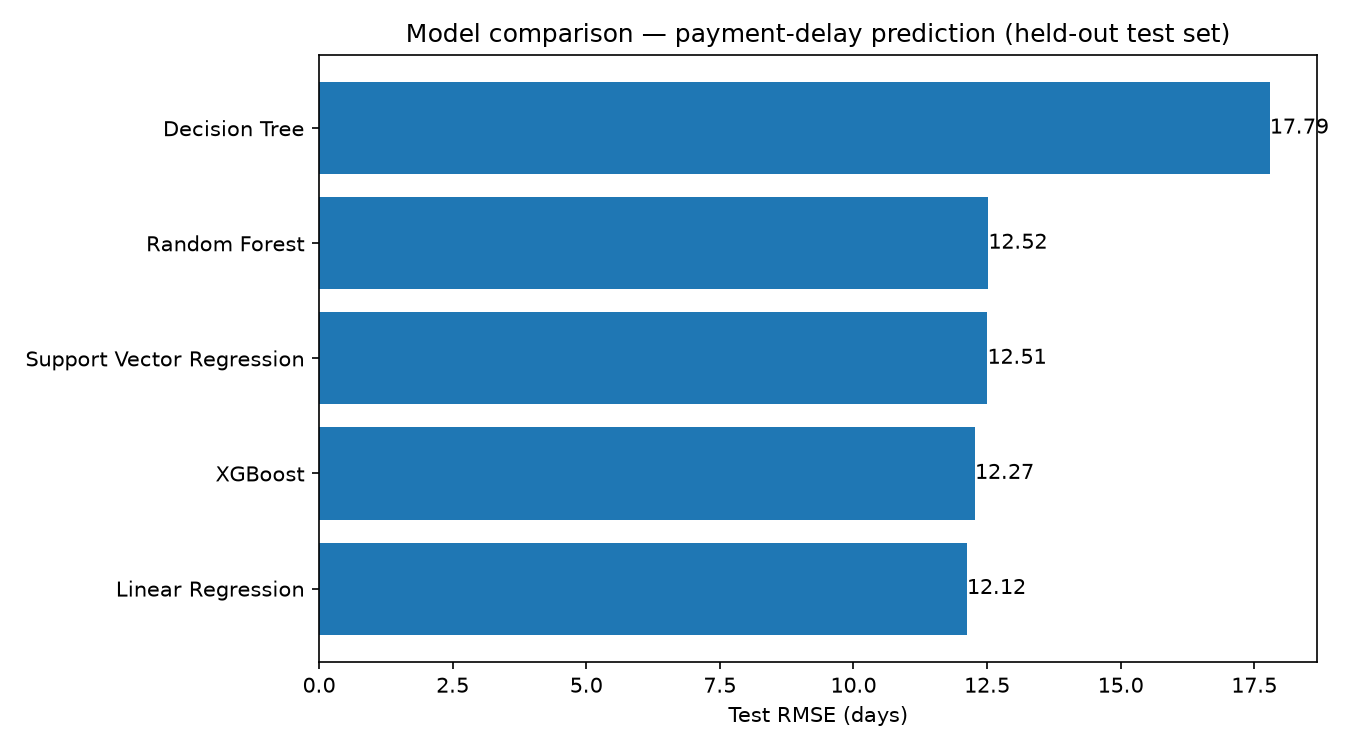
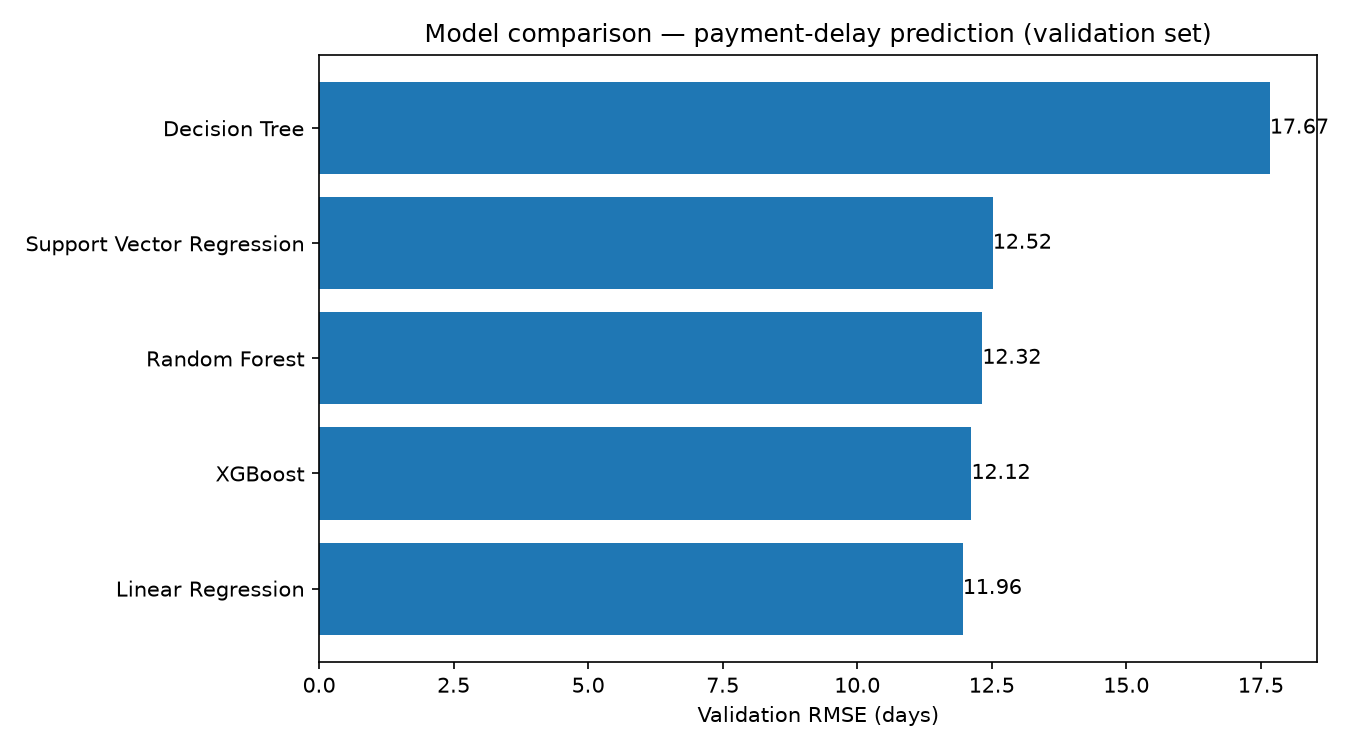
Fix evaluation design: train-only term imputation; model selection on validation, single final test evaluation

diff --git a/outputs/report.md b/outputs/report.md
@@ -15,21 +15,31 @@
 - Dropped columns: posting_id, area_business, is_open_item
 - Rows after duplicate removal: **47,692** (2,308 duplicates removed)
 
-## Leakage fix
+## Evaluation design (leakage fixes)
 
-The labeled data was split into train/test **before** any target-derived feature was computed. Customer-level average delay and invoice counts come from the training split only; unseen customers fall back to the training global mean. The original notebook computed these averages before splitting, which leaked each test row's own target into its features.
+1. The labeled data was split into train / validation / test **before** any target-derived feature was computed. Customer-level average delay and invoice counts come from the training split only; unseen customers fall back to the training global mean. The original notebook computed these averages before splitting, which leaked each test row's own target into its features.
+2. Missing payment terms are filled with the most common term computed from the **training** split only, then applied to validation, test, and unlabeled rows.
+3. Models were compared on the **validation** split. The winner was refit on train + validation and evaluated exactly once on the untouched test set, so the reported test metrics are not the numbers the selection was tuned against.
 
-## Model comparison (held-out test set)
+## Model comparison (validation set)
 
-| Model | RMSE (days) | MAE (days) | R² |
-|-------|------------:|-----------:|---:|
-| Linear Regression | 12.12 | 9.71 | 0.698 |
-| XGBoost | 12.27 | 9.84 | 0.690 |
-| Support Vector Regression | 12.51 | 10.01 | 0.678 |
-| Random Forest | 12.52 | 10.05 | 0.677 |
-| Decision Tree | 17.79 | 14.27 | 0.349 |
+| Model | Validation RMSE (days) | Validation MAE (days) | Validation R² |
+|-------|-----------------------:|----------------------:|--------------:|
+| Linear Regression | 11.96 | 9.53 | 0.709 |
+| XGBoost | 12.12 | 9.67 | 0.701 |
+| Random Forest | 12.32 | 9.81 | 0.691 |
+| Support Vector Regression | 12.52 | 9.97 | 0.681 |
+| Decision Tree | 17.67 | 14.07 | 0.365 |
 
-**Selected model: Linear Regression** (lowest test RMSE).
+**Selected model: Linear Regression** (lowest validation RMSE).
+
+## Final evaluation (untouched test set, evaluated once)
+
+The selected model was refit on train + validation and scored a single time on the test set, which played no part in training or model selection.
+- Model: **Linear Regression**
+- Test RMSE: **12.12 days**
+- Test MAE: **9.71 days**
+- Test R²: **0.698**
 
 ## Prediction output
 
